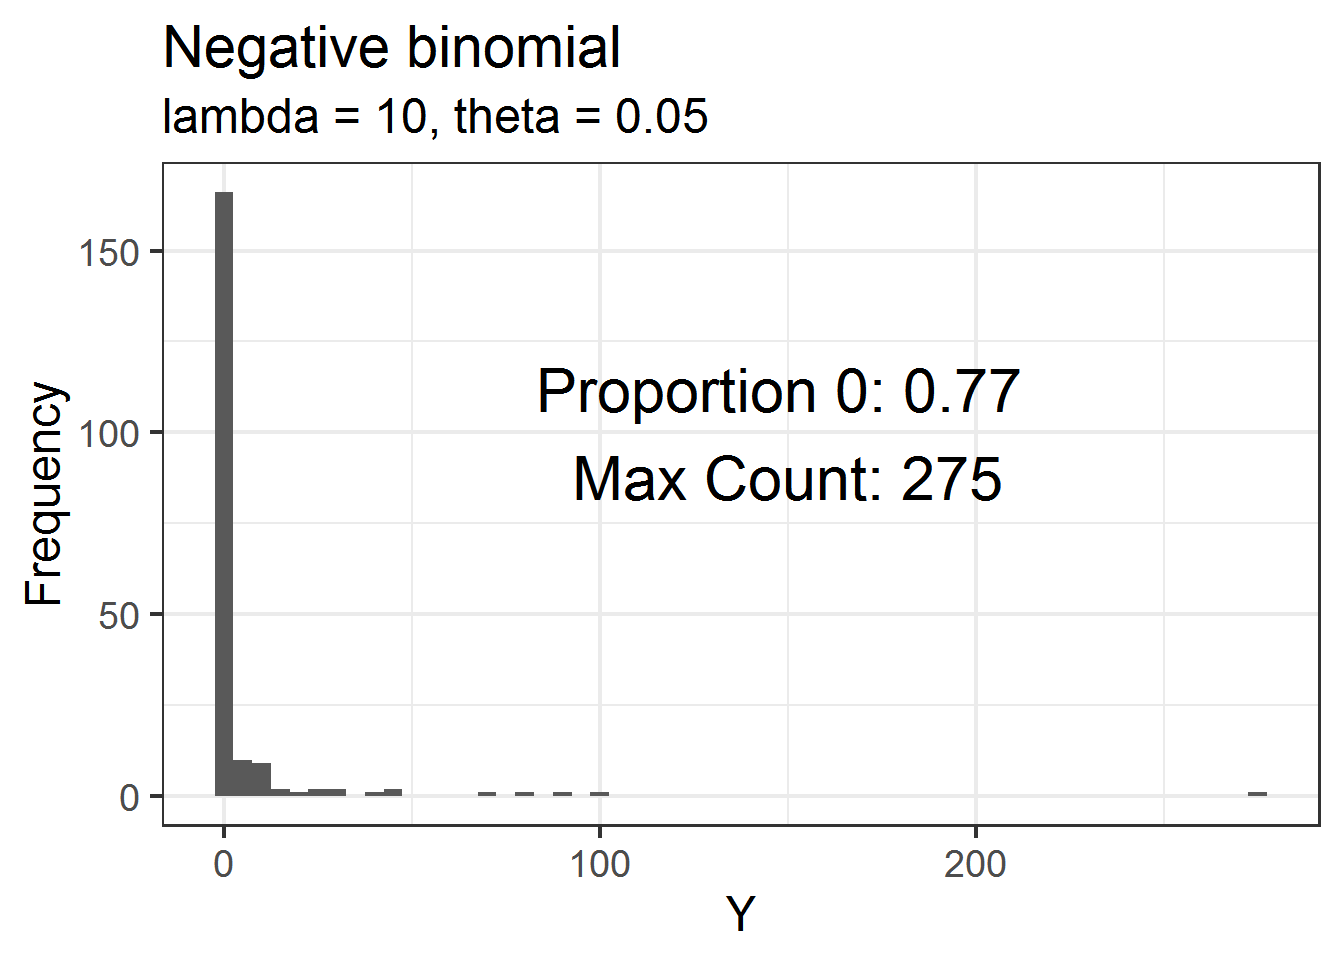
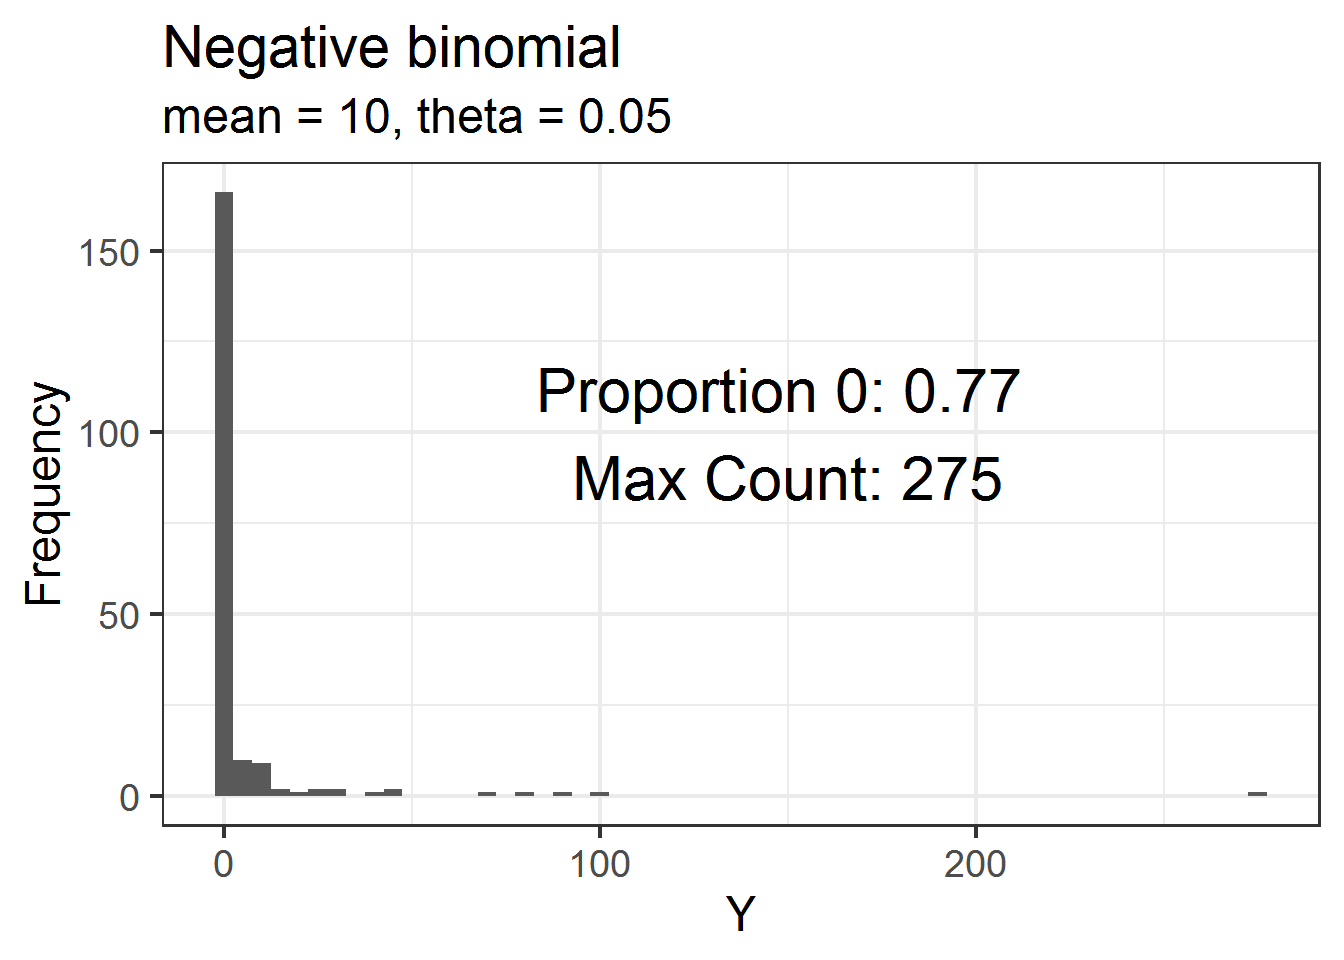
Post edited draft of zero inflation post

Changed region(s): [[0.125, 0.0938, 0.5312, 0.1562]]

diff --git a/content/post/2019-03-05-lots-of-zeros.html b/content/post/2019-03-05-lots-of-zeros.html
@@ -1,5 +1,5 @@
 ---
-title: 'Lots of zeros or too many zeros?: thinking about zero-inflation'
+title: 'Lots of zeros or too many zeros?: Thinking about zero-inflation in count data'
 author: Ariel Muldoon
 date: '2019-03-05'
 slug: lots-of-zeros
@@ -10,36 +10,36 @@ tags:
   - glmm
   - simulation
   - teaching
-draft: TRUE
-description: "When working with counts, having 0 values does not necessarily indicate zero-inflation.  I demonstrate this by simulating data data simulated the negative binomial and generalized Poisson distributions.  I finish by talking about how to check if the model you fit models the number of 0 values in the data well."
+draft: FALSE
+description: "When working with counts, having many zeros does not necessarily indicate zero-inflation.  I demonstrate this by simulating data from the negative binomial and generalized Poisson distributions.  I then show one way to check if the data has excess zeros compared to the number expected by the model."
 ---
 
 
 
-<p>As part of a class I was teaching, I gave an brief introduction to generalized linear models (GLM) this quarter. You can’t get into much detail in on GLM’s just four class periods weeks, but I did manage to work in a bit of info on zero inflation with count distributions. One take-home message that I thought worth repeating here is that having a lot of zero values does not necessarily mean you have zero inflation.</p>
+<p>In a recent lecture I gave a basic overview of zero-inflation in count distributions. My main take-home message to the students that I thought worth posting about here is that having a lot of zero values does not necessarily mean you have zero inflation.</p>
 <p>Zero inflation is when there are more 0 values in the data than the distribution allows for. But some distributions can have a lot of zeros!</p>
 <div id="load-packages-and-dataset" class="section level1">
 <h1>Load packages and dataset</h1>
-<p>I’m going to be simulating counts from distributions to demonstrate this. Before I get to that, I’ll load the packages I’m using today.</p>
-<p>Package <strong>HMMpa</strong> is for drawing random samples from the generalized Poisson distribution and <strong>VGAM</strong> for drawing from a zero-inflated negative binomial distribution.</p>
+<p>I’m going to be simulating counts from different distributions to demonstrate this. First I’ll load the packages I’m using today.</p>
+<p>Package <strong>HMMpa</strong> is for drawing random samples from the generalized Poisson distribution.</p>
 <pre class="r"><code>library(ggplot2) # v. 3.1.0
 library(HMMpa) # v. 1.0.1
-library(MASS) # v. 7.3-51.1
-library(VGAM) # v. 1.1-1</code></pre>
+library(MASS) # v. 7.3-51.1</code></pre>
 </div>
 <div id="negative-binomial-with-many-zeros" class="section level1">
 <h1><a href="negative-binomial-with-many-zeros">Negative binomial with many zeros</a></h1>
-<p>First I’ll draw 200 counts from a negative binomial with <span class="math inline">\(\lambda = 10\)</span> and <span class="math inline">\(\theta = 0.05\)</span>. R generally uses the parameterization where the variance of the distribution is <span class="math inline">\(\lambda + (\lambda^2/\theta)\)</span>, so as <span class="math inline">\(\theta\)</span> gets small the variance gets big.</p>
-<p>I make random draws from this simple distribution using <code>rnbinom()</code>. The <code>mu</code> argument is the mean and the <code>size</code> argument is theta. Using such a small <span class="math inline">\(\theta\)</span> in the simulation will generally return lots of 0 values as well as a few very large values.</p>
+<p>First I’ll draw 200 counts from a negative binomial with a mean (<span class="math inline">\(\lambda\)</span>) of <span class="math inline">\(10\)</span> and <span class="math inline">\(\theta = 0.05\)</span>.<br />
+R uses the parameterization of the negative binomial where the variance of the distribution is <span class="math inline">\(\lambda + (\lambda^2/\theta)\)</span>. In this parameterization, as <span class="math inline">\(\theta\)</span> gets small the variance gets big. Using such a small value for theta will generally mean the distribution of counts can have many zeros as well as a few large counts</p>
+<p>I make random draws from this distribution using <code>rnbinom()</code>. The <code>mu</code> argument is the mean and the <code>size</code> argument is theta.</p>
 <pre class="r"><code>set.seed(16)
 dat = data.frame(Y = rnbinom(200, mu = 10, size = .05) )</code></pre>
-<p>Here is a histogram of these data. I’ve added info to the plot on the proportion of the 200 values that are 0 as well as the maximum observed count in the dataset. There are lots of zeros!</p>
+<p>Here is a histogram of these data. I’ve annotated the plot with the proportion of the 200 values that are 0 as well as the maximum observed count in the dataset. There are lots of zeros! But this is not zero-inflated, because we can expect to have many 0 values under this distribution.</p>
 <pre class="r"><code>ggplot(dat, aes(x = Y) ) +
     geom_histogram(binwidth = 5)  +
     theme_bw(base_size = 18) +
     labs(y = &quot;Frequency&quot;,
          title = &quot;Negative binomial&quot;,
-         subtitle = &quot;lambda = 10, theta = 0.05&quot; ) +
+         subtitle = &quot;mean = 10, theta = 0.05&quot; ) +
     annotate(geom = &quot;text&quot;,
             label = paste(&quot;Proportion 0:&quot;, mean(dat$Y == 0), 
                         &quot;\nMax Count:&quot;, max(dat$Y) ),
@@ -48,11 +48,12 @@ dat = data.frame(Y = rnbinom(200, mu = 10, size = .05) )</code></pre>
 </div>
 <div id="generalized-poisson-with-many-zeros" class="section level1">
 <h1><a href="#generalized-poisson-with-many-zeros">Generalized Poisson with many zeros</a></h1>
-<p>I don’t know the generalized Poisson distribution well, although it seems to be common in some fields. For whatever reason, the negative binomial seems much more common in ecology. From my understanding, this distribution can have heavier tails than the negative binomial, so it can have more extreme maximum counts as well as lots of zeros.</p>
+<p>I don’t know the generalized Poisson distribution well, although it appears to be regularly used in some fields. For whatever reason, the negative binomial seems much more common in ecology.</p>
+<p>From my understanding, the generalized Poisson distribution can have heavier tails than the negative binomial. It can have more extreme maximum counts as well as lots of zeros.</p>
 <p>See the documentation for <code>rgenpois()</code> for the formula for the density and definitions of mean and variance. Note that when <code>lambda2</code> is 0, the generalized Poisson reduces to the Poisson.</p>
 <pre class="r"><code>set.seed(16)
 dat = data.frame(Y = rgenpois(200, lambda1 = 0.5, lambda2 = 0.95) )</code></pre>
-<p>Here is a histogram of these data. There are only a little over 50% zeros but the maximum count is over 1000! 😮</p>
+<p>Here is a histogram of these data. Just over 50% of the values are zeros but the maximum count is over 1000! 💥</p>
 <pre class="r"><code>ggplot(dat, aes(x = Y) ) +
     geom_histogram(binwidth = 5)  +
     theme_bw(base_size = 18) +
@@ -67,50 +68,51 @@ dat = data.frame(Y = rgenpois(200, lambda1 = 0.5, lambda2 = 0.95) )</code></pre>
 </div>
 <div id="lots-of-zeros-or-excess-zeros" class="section level1">
 <h1><a href="#lots-of-zeros-or-excess-zeros">Lots of zeros or excess zeros?</a></h1>
-<p>All the simulations above show us is that some distributions <em>can</em> have a lot of zeros. In any given scenario, though, how do we check if we have <em>excess</em> zeros (i.e., more than the distribution we are using for modeling allows)? If we have excess zeros than we may either need a different distribution or we could think about models that specifically address zero-inflation.</p>
-<p>The key is to figure out the number of zeros you would expect to see if the fitted model were truly the model that created your data.</p>
+<p>All the simulations above show us is that some distributions <em>can</em> have a lot of zeros. In any given scenario, though, how do we check if we have <em>excess</em> zeros? Excess zeros is having more zeros than expected by the distribution we are using for modeling. If we have excess zeros than we may either need a different count distribution or we could think about models that specifically address zero-inflation.</p>
+<p>The key to checking for excess zeros is to estimate the number of zeros you would expect to see if the fitted model were truly the model that created your data.</p>
 </div>
 <div id="simulate-negative-binomial-data" class="section level1">
 <h1>Simulate negative binomial data</h1>
-<p>To demonstrate this, I’ll make a dataset based on a negative binomial model with a single explanatory variable.</p>
-<p>Since this is a generalized linear model, I first calculate the means based on the linear predictor (the exponetiation is due to the log link).</p>
+<p>To demonstrate this, I’ll make a dataset based on a negative binomial model with a single, continuous explanatory variable.</p>
+<p>Since this is a generalized linear model, I first calculate the means based on the linear predictor (the exponentiation is due to using the natural log link to <em>link</em> the mean to the linear predictor).</p>
 <pre class="r"><code>set.seed(16)
 x = runif(200, 5, 10) # simulate explanatory variable
 b0 = 1 # set value of intercept
 b1 = 0.25 # set value of intercept
-means = exp(b0 + b1*x) # true means</code></pre>
-<p>Then I can use the means along with my chosen value of <code>theta</code> to simulate data from the negative binomial distribution.</p>
-<pre class="r"><code>theta = 0.25
-y = rnbinom(200, mu = means, size = theta)</code></pre>
-<p>Now that I’ve made some data I can fit a model. Since I’m using a negative binomial GLM with <code>x</code> as the explanatory variable, which is how I created the data, this model should work well. The <code>glm.nb()</code> function is in package <strong>MASS</strong>.</p>
+means = exp(b0 + b1*x) # true means
+theta = 0.25 # true theta</code></pre>
+<p>I can use these true means along with my chosen value of <code>theta</code> to simulate data from the negative binomial distribution.</p>
+<pre class="r"><code>y = rnbinom(200, mu = means, size = theta)</code></pre>
+<p>Now that I’ve made some data I can fit a model. Since I’m using a negative binomial GLM with <code>x</code> as the explanatory variable, which is how I created the data, this model should work well. The <code>glm.nb()</code> function is from package <strong>MASS</strong>.</p>
 <pre class="r"><code>fit1 = glm.nb(y ~ x)</code></pre>
-<p>I’m going to go directly to checking for excess zeros, but I would usually look at residual plots and check for overdispersion to check model fit.</p>
+<p>In this exercise I’m going to go directly to checking for excess zeros. This means I’m skipping other important checks of model fit, such as checks for overdispersion and examining residual plots. Don’t skip these in a real analysis; having excess zeros certainly isn’t the only problem we can run into with count data.</p>
 </div>
 <div id="checking-for-excess-zeros" class="section level1">
 <h1><a href="#checking-for-excess-zeros">Checking for excess zeros</a></h1>
-<p>The observed data has 76 0 values in it (out of 200).</p>
+<p>The observed data has 76 zeros (out of 200).</p>
 <pre class="r"><code>sum(y == 0)</code></pre>
 <pre><code># [1] 76</code></pre>
-<p>How many zeros is expected given the model? I need the model estimated means and theta to anwer this. I can get the means via <code>predict()</code> and I can pull <code>theta</code> out of the model <code>summary()</code>.</p>
+<p>How many zeros is expected given the model? I need the model estimated means and theta to answer this question. I can get the means via <code>predict()</code> and I can pull <code>theta</code> out of the model <code>summary()</code>.</p>
 <pre class="r"><code>preds = predict(fit1, type = &quot;response&quot;) # estimated means
 esttheta = summary(fit1)$theta # estimated theta</code></pre>
-<p>For discrete distributions like the negative binomial, the <em>density</em> distribution functions (which start with “d”) return the probability that the observation is equal to the given value. This means I can use <code>dnbinom()</code> to calculate the probability of an observation being 0 for every row in the dataset if I provide values for the parameters of the distribution of each observation.</p>
-<p>Based on the model, the distribution of each observation is negative binomial with a model estimated mean and the overall theta.</p>
+<p>For discrete distributions like the negative binomial, the <em>density</em> distribution functions (which start with the letter “d”) return the probability that the observation is equal to a given value. This means I can use <code>dnbinom()</code> to calculate the probability of an observation being 0 for every row in the dataset if I provide values for the parameters of the distribution of each observation.</p>
+<p>Based on the model, the distribution of each observation is negative binomial with the mean estimated from the model and the overall estimated theta.</p>
 <pre class="r"><code>prop0 = dnbinom(x = 0, mu = preds, size = esttheta )</code></pre>
-<p>The sum these probabilities is an estimate of the number of zero values expected by the model (see <a href="https://data.library.virginia.edu/getting-started-with-hurdle-models/">here</a> for another example). I’ll round this to the nearest integer.</p>
+<p>The sum of these probabilities is an estimate of the number of zero values expected by the model (see <a href="https://data.library.virginia.edu/getting-started-with-hurdle-models/">here</a> for another example). I’ll round this to the nearest integer.</p>
 <pre class="r"><code>round( sum(prop0) )</code></pre>
 <pre><code># [1] 72</code></pre>
 <p>The expected number of 0 values is ~72, very close to the 76 observed in the data. This is no big surprise, since I fit the same model that I used to create the data.</p>
 </div>
 <div id="an-example-with-excess-zeros" class="section level1">
 <h1><a href="#an-example-with-excess-zeros">An example with excess zeros</a></h1>
-<p>The example above demonstrates a model that fits the data. Let me finish by fitting a model to data that has more zeros than expected by the distribution. This can be done by fitting a Poisson GLM instead of a negative binomial GLM to the data above.</p>
+<p>The example above demonstrates a model without excess zeros. Let me finish by fitting a model to data that has more zeros than expected by the distribution. This can be done by fitting a Poisson GLM instead of a negative binomial GLM to my simulated data.</p>
 <pre class="r"><code>fit2 = glm(y ~ x, family = poisson)</code></pre>
 <p>Remember the data contain 76 zeros.</p>
 <pre class="r"><code>sum(y == 0)</code></pre>
 <pre><code># [1] 76</code></pre>
-<p>But, based on the Poisson model, we expect no 0 values. These data are zero-inflated compared to the Poisson distribution, and we’d need a different option for fitting these data.</p>
+<p>Using <code>dpois()</code>, the number of zeros given be the Poisson model is 0. 😮 These data are zero-inflated compared to the Poisson distribution, and I would need a different option for modeling these data.</p>
 <pre class="r"><code>round( sum( dpois(x = 0,
            lambda = predict(fit2, type = &quot;response&quot;) ) ) )</code></pre>
 <pre><code># [1] 0</code></pre>
+<p>This brings me back to my earlier point about checking model fit. If I had done other standard checks of model fit for <code>fit2</code> I would have seen additional problems that would indicate the Poisson distribution did not fit these data (such as severe overdispersion).</p>
 </div>
